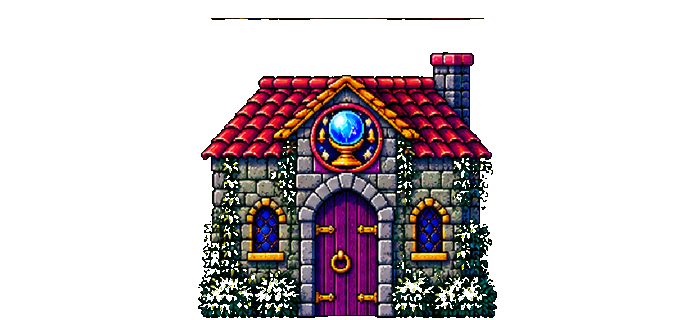
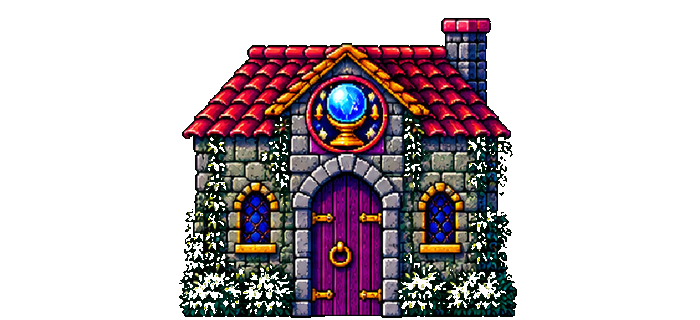
Zeliard: whole opening pictures, clean Muralla buildings, no flashing strip on moving platforms

diff --git a/public/zeliard/game/src/scenes/story.js b/public/zeliard/game/src/scenes/story.js
@@ -1,7 +1,7 @@
 // Cutscenes: the opening story, the ending, and the Tear of Esmesanti fanfare.
 // Text is the Sierra English script from data/rules/story.json; each original
 // picture (.grp) maps to a remastered panel under art/story/ when one exists.
-import { ctx, W, H, text, panel, COLORS, drawCover, fade, wrap } from '../render/screen.js';
+import { ctx, W, H, text, panel, COLORS, drawCover, drawContain, fade, wrap } from '../render/screen.js';
 import { image } from '../core/assets.js';
 import { audio } from '../core/audio.js';
 import { sheetNow } from '../core/assets.js';
@@ -17,6 +17,8 @@ const PANELS = {
 // portrait) shares the screen with the picture that matters in split scenes.
 const MINOR = new Set(['yuup.grp']);
 // New pictures for the original's staging, and what to show until they exist.
+// Height of the picture above the text box (the box holds four lines at 19 px).
+const PIC_H = 380;
 const FALLBACK = { felicia_closeup: 'felicia_balcony', jashiin_eyes: 'jashiin_curse', duke_into_light: 'door_of_destiny' };
 const SPEAKER = { 'Duke Garland': 'duke', 'King Felishika': 'king', Jashiin: 'jashiin' };
 
@@ -187,7 +189,9 @@ export class StoryScene {
     const p = this.page || this.pages[this.pages.length - 1];
     if (!p) return;
     const img = this.imgs[p.pic];
-    const ph = p.caption ? H : 360;
+    // The picture area: everything above the text box (whole screen for captions). Pictures are
+    // shown whole (drawContain), never cropped to fill it.
+    const ph = p.caption ? H : PIC_H;
     const st = p.stage || {};
     if (p.tear) this.drawTear(p.tear, t);
     else if (st.portraits) this.drawPortraits(p, st, ph);
@@ -195,12 +199,16 @@ export class StoryScene {
       // Crossfade from the previous picture over 0.8 s.
       const k = Math.min(1, (this.picT || 0) / 0.8);
       const prev = this.prevPic && this.prevPic !== p.pic && !this.prevPage?.stage?.portraits ? this.imgs[this.prevPic] : null;
-      if (prev && k < 1) drawCover(prev, 0, 0, W, ph);
+      if (prev && k < 1) drawContain(prev, 0, 0, W, ph);
+      // The closing push-in starts from the whole picture and slowly closes in on it.
       const push = st.fx === 'push' ? Math.min(1, (this.picT || 0) / 14) : 0;
-      if (img) drawCover(img, -push * 60, -push * 40, W + push * 120, ph + push * 80, prev ? k : 1);
-      else if (this.fallback) drawCover(this.fallback, -20 + Math.sin(this.t * 0.1) * 20, 0, W + 40, ph, 0.55);
+      ctx.save();
+      ctx.beginPath(); ctx.rect(0, 0, W, ph); ctx.clip();
+      const r = img ? drawContain(img, -push * 60, -push * 40, W + push * 120, ph + push * 80, prev ? k : 1) : null;
+      ctx.restore();
+      if (!img && this.fallback) drawContain(this.fallback, 0, 0, W, ph, 0.55);
       if (st.fx === 'rain') this.drawRain(ph, t);
-      if (st.fx === 'eyes_in') this.drawEyesIn(ph);
+      if (st.fx === 'eyes_in' && r) this.drawEyesIn(r);
     }
     if (p.caption) {
       fade(0.55, '#000');
@@ -211,7 +219,9 @@ export class StoryScene {
       g.addColorStop(0, 'rgba(5,3,10,0)'); g.addColorStop(1, 'rgba(5,3,10,1)');
       ctx.fillStyle = g; ctx.fillRect(0, ph - 60, W, 60);
       panel(40, ph + 6, W - 80, H - ph - 20, { alpha: 0.95 });
-      this.drawText(p, 70, ph + 24, W - 140, 19, 'left');
+      // Four lines fit at 19 px; the odd five-line page steps down a size.
+      const n = p.chunks.reduce((a, c) => a + (c.speaker ? 1 : 0) + c.text.split('\n').reduce((b, l) => b + wrap(l, W - 140, 19).length, 0), 0);
+      this.drawText(p, 70, ph + 22, W - 140, n > 4 ? 17 : 19, 'left');
     }
     text(`${Math.min(this.i + 1, this.pages.length)} / ${this.pages.length}    Enter: next   Esc: skip`, W - 20, H - 18, { size: 11, align: 'right', color: COLORS.dim });
   }
@@ -247,14 +257,16 @@ export class StoryScene {
     ctx.restore();
   }
   // Jashiin's eyes blend in over the princess (the original's palette blend).
-  drawEyesIn(ph) {
+  drawEyesIn(r) {
     const im = this.eyesOverlay;
     if (!im) return;
     const k = Math.min(1, (this.picT || 0) / 2.5);
     ctx.save();
     ctx.globalCompositeOperation = 'screen';
-    // In the dark sky over Felicia's shoulder (upper left of felicia_closeup), not on her face.
-    drawCover(im, -W * 0.02, -ph * 0.04, W * 0.6, W * 0.4, k * 0.9);
+    // In the dark sky over Felicia's shoulder (upper left of felicia_closeup), not on her face;
+    // placed on the picture itself (r: where drawContain put it).
+    ctx.beginPath(); ctx.rect(r.x, r.y, r.w, r.h); ctx.clip();
+    drawCover(im, r.x, r.y - r.h * 0.02, r.w * 0.62, r.w * 0.62 * 2 / 3, k * 0.9);
     ctx.restore();
   }
   // The split frame: portraits side by side in gold frames (or Jashiin's alone). The speaker

diff --git a/public/zeliard/game/src/scenes/opening.js b/public/zeliard/game/src/scenes/opening.js
@@ -4,7 +4,7 @@
 // up), Jashiin's awakening (his face built up out of the dark, the eyes opening, the fanged mouth
 // speaking), the title logo with its colour rotation, and the staff credits. Enter skips to the
 // next part; Esc (or the pause key) goes straight to the title menu.
-import { ctx, W, H, text, COLORS, drawCover } from '../render/screen.js';
+import { ctx, W, H, text, COLORS, drawContain } from '../render/screen.js';
 import { image } from '../core/assets.js';
 import { audio } from '../core/audio.js';
 
@@ -14,6 +14,9 @@ const LINE = 10 * 0x1c / 236.7;
 const PHASES = ['card', 'prologue', 'jashiin', 'title', 'credits'];
 
 const lines = (scenes, phase) => (scenes.find((s) => s.phase === phase)?.pages || []).flatMap((p) => p.lines.map((l) => l.text ?? ''));
+
+// Jashiin's face: the whole 3:2 picture, fitted above the bottom 100 px where his words appear.
+const FACE = { w: (H - 100) * 1.5, h: H - 100, x: (W - (H - 100) * 1.5) / 2, y: 0 };
 
 export class OpeningScene {
   constructor(game, done) {
@@ -90,7 +93,8 @@ export class OpeningScene {
       ctx.save();
       ctx.globalAlpha = 1 - out;
       // Blue silhouette -> gold: draw the necklace, then wash it with deep blue that thins out.
-      drawCover(nk, -20, -10 - u * 30, W + 40, H + 60);
+      // The whole necklace, drifting up 30 px as the text rolls (never past the top).
+      const pic = drawContain(nk, 0, 30 * (1 - u), W, H - 30);
       ctx.globalCompositeOperation = 'color';
       ctx.fillStyle = `rgba(20,40,170,${Math.max(0, 1 - u * 1.6)})`;
       ctx.fillRect(0, 0, W, H);
@@ -103,7 +107,8 @@ export class OpeningScene {
         for (let i = 0; i < 9; i++) {
           const ph = (this.t * 0.9 + i * 0.37) % 3;
           if (ph > 0.5) continue;
-          const x = W * (0.29 + i * 0.053), y = H * (0.47 + Math.sin((i / 8) * Math.PI) * 0.1) - u * 20;
+          // On the gems: fractions of the picture.
+          const x = pic.x + pic.w * (0.298 + i * 0.0509), y = pic.y + pic.h * (0.457 + Math.sin((i / 8) * Math.PI) * 0.081);
           const r = 14 * Math.sin((ph / 0.5) * Math.PI) * (u - 0.6) * 2.5;
           const g = ctx.createRadialGradient(x, y, 0, x, y, r * 2);
           g.addColorStop(0, 'rgba(255,255,230,0.9)'); g.addColorStop(1, 'rgba(255,220,150,0)');
@@ -152,17 +157,20 @@ export class OpeningScene {
         // Speaking: the mouth opens and closes while each strip is being spoken.
         const strip = this.stripAt(T);
         if (strip && roar && Math.floor((T - strip.t0) / 0.16) % 2 === 0 && T - strip.t0 < 1.6) img = roar;
-        drawCover(img, W * 0.08, -46, W * 0.84, W * 0.84 * 2 / 3, a); // a little smaller and higher: room for his words under the chin
+        drawContain(img, FACE.x, FACE.y, FACE.w, FACE.h, a, false); // the whole face, above his words
         ctx.restore();
       }
       // The eyes flare as they open.
       if (T > 5 && T < 6.2) {
         const k = 1 - (T - 5) / 1.2;
         ctx.globalCompositeOperation = 'lighter';
-        for (const ex of [0.357, 0.66]) {
-          const g = ctx.createRadialGradient(W * ex, 122, 0, W * ex, 122, 160);
+        // The eyes sit at (0.33, 0.31) and (0.69, 0.31) of the face picture.
+        const fr = 120 * FACE.w / 660, ey = FACE.y + FACE.h * 0.312;
+        for (const ex of [0.33, 0.69]) {
+          const cx = FACE.x + FACE.w * ex;
+          const g = ctx.createRadialGradient(cx, ey, 0, cx, ey, fr);
           g.addColorStop(0, `rgba(255,60,40,${0.8 * k})`); g.addColorStop(1, 'rgba(255,0,0,0)');
-          ctx.fillStyle = g; ctx.fillRect(W * ex - 160, 122 - 160, 320, 320);
+          ctx.fillStyle = g; ctx.fillRect(cx - fr, ey - fr, fr * 2, fr * 2);
         }
         ctx.globalCompositeOperation = 'source-over';
       }

diff --git a/public/zeliard/game/src/render/screen.js b/public/zeliard/game/src/render/screen.js
@@ -96,6 +96,62 @@ export function fade(alpha, color = '#000') {
   ctx.restore();
 }
 
+// Fit the whole of an image inside a rectangle (nothing cropped) and return where it went. With
+// `backdrop`, the margins are filled with a dark, blurred copy of the same picture, cover-fitted,
+// so a 3:2 painting on the 16:9 screen reads as one image rather than a boxed one. The blur is a
+// small blurred copy, made once per image, so it costs nothing per frame.
+const blurred = new WeakMap();
+export function drawContain(img, x, y, w, h, alpha = 1, backdrop = true) {
+  if (!img) return null;
+  const s = Math.min(w / img.width, h / img.height);
+  const dw = img.width * s, dh = img.height * s;
+  const r = { x: x + (w - dw) / 2, y: y + (h - dh) / 2, w: dw, h: dh };
+  if (backdrop && (dw < w - 1 || dh < h - 1)) {
+    let b = blurred.get(img);
+    if (!b) {
+      b = document.createElement('canvas'); b.width = 240; b.height = Math.max(1, Math.round(240 * img.height / img.width));
+      const g = b.getContext('2d'); g.imageSmoothingEnabled = true; g.filter = 'blur(6px)';
+      g.drawImage(img, -12, -12, b.width + 24, b.height + 24); // overscan: no dark rim from the blur
+      blurred.set(img, b);
+    }
+    ctx.save();
+    ctx.beginPath(); ctx.rect(x, y, w, h); ctx.clip();
+    drawCover(b, x, y, w, h, alpha * 0.45);
+    ctx.restore();
+  }
+  ctx.save();
+  ctx.globalAlpha *= alpha;
+  ctx.imageSmoothingEnabled = true;
+  ctx.drawImage(backdrop ? feathered(img, dw, dh, dw < w - 1, dh < h - 1) : img, r.x, r.y, r.w, r.h);
+  ctx.restore();
+  return r;
+}
+// A copy of the picture at about its shown size whose edges fade out over 36 px, so it melts into
+// the blurred backdrop instead of ending in a hard line. Made once per image (and side set).
+const soft = new WeakMap();
+function feathered(img, dw, dh, sides, ends) {
+  if (!sides && !ends) return img;
+  const key = `${sides}${ends}`;
+  let c = soft.get(img)?.[key];
+  if (c) return c;
+  c = document.createElement('canvas');
+  c.width = Math.round(dw); c.height = Math.round(dh);
+  const g = c.getContext('2d');
+  g.imageSmoothingEnabled = true;
+  g.drawImage(img, 0, 0, c.width, c.height);
+  g.globalCompositeOperation = 'destination-out';
+  const F = 36;
+  const edge = (x0, y0, x1, y1, rx, ry, rw, rh) => {
+    const gr = g.createLinearGradient(x0, y0, x1, y1);
+    gr.addColorStop(0, 'rgba(0,0,0,1)'); gr.addColorStop(1, 'rgba(0,0,0,0)');
+    g.fillStyle = gr; g.fillRect(rx, ry, rw, rh);
+  };
+  if (sides) { edge(0, 0, F, 0, 0, 0, F, c.height); edge(c.width, 0, c.width - F, 0, c.width - F, 0, F, c.height); }
+  if (ends) { edge(0, 0, 0, F, 0, 0, c.width, F); edge(0, c.height, 0, c.height - F, 0, c.height - F, c.width, F); }
+  soft.set(img, { ...(soft.get(img) || {}), [key]: c });
+  return c;
+}
+
 // Cover-fit an image into a rectangle (used for backgrounds and cutscene panels).
 export function drawCover(img, x, y, w, h, alpha = 1) {
   if (!img) return;

diff --git a/public/zeliard/game/src/game/entities.js b/public/zeliard/game/src/game/entities.js
@@ -338,8 +338,10 @@ class Platform {
   constructor(p) { this.p = p; this.tx = p.x; this.ty = p.y; this.ptx = p.x; this.pty = p.y; this.acc = 0; this.t = 0; }
   stamp(map, on = true) {
     for (let i = 0; i < 3; i++) {
-      if (on) map.setOverride(this.tx + i, this.ty, F.ONEWAY | F.PLATFORM);
-      else map.clearOverride(this.tx + i, this.ty);
+      // Footing only: the platform draws itself. Drawn by the terrain, the tiles it had just
+      // stepped onto showed as a ledge strip flashing ahead of the sliding rock.
+      if (on) map.setOverride(this.tx + i, this.ty, F.ONEWAY | F.PLATFORM, false);
+      else map.clearOverride(this.tx + i, this.ty, false);
     }
   }
   moveTo(map, tx, ty) { this.stamp(map, false); this.tx = tx; this.ty = ty; this.stamp(map, true); }
@@ -350,6 +352,7 @@ class Platform {
   drawAt(cx, cy, color, art) {
     const a = Math.min(1, this.acc / FRAME);
     const x = (this.ptx + (this.tx - this.ptx) * a) * TILE - cx, y = (this.pty + (this.ty - this.pty) * a) * TILE - cy;
+    this.lastDraw = { x, y }; // screen position, for tools/tests/moverstrip.mjs
     // Art: the walkable top sits on the tile row; the plank hangs a little below it.
     if (art && imageNow(`art/props/${art}.png`)) {
       const img = imageNow(`art/props/${art}.png`);

diff --git a/public/zeliard/game/src/world/tilemap.js b/public/zeliard/game/src/world/tilemap.js
@@ -43,18 +43,21 @@ export class TileMap {
     if (dyn & 0x80000000) return dyn & 0x7fffffff; // override
     return this.flagsById[this.grid[i]] | dyn;
   }
-  setOverride(tx, ty, flags) {
+  // redraw: false for tiles that something else draws (a moving platform's footing): the terrain
+  // doesn't repaint for them, which also spares a chunk re-render on every platform step.
+  setOverride(tx, ty, flags, redraw = true) {
     const i = this.index(tx, ty);
     if (i < 0) return;
     this.dyn[i] = (0x80000000 | flags) >>> 0;
-    this.version++;
+    if (redraw) this.version++;
   }
-  clearOverride(tx, ty) {
+  clearOverride(tx, ty, redraw = true) {
     const i = this.index(tx, ty);
     if (i < 0) return;
     this.dyn[i] = 0;
-    this.version++;
+    if (redraw) this.version++;
   }
+  isOverride(tx, ty) { const i = this.index(tx, ty); return i >= 0 && (this.dyn[i] & 0x80000000) !== 0; }
   setTile(tx, ty, id) {
     const i = this.index(tx, ty);
     if (i < 0) return;

diff --git a/public/zeliard/game/src/world/terrain.js b/public/zeliard/game/src/world/terrain.js
@@ -156,7 +156,7 @@ export class TerrainRenderer {
         const px = x * TILE - ox, py = y * TILE - oy;
         if (f & F.ROPE) this.drawRope(g, px, py, x, y);
         if (f & F.HAZARD && !(f & F.SOLID)) this.drawHazard(g, px, py, x, y);
-        if (f & F.ONEWAY) this.drawLedge(g, px, py, x, y);
+        if (f & F.ONEWAY && !(f & F.PLATFORM && m.isOverride(x, y))) this.drawLedge(g, px, py, x, y); // moving platforms draw themselves
         if (f & F.ICE && f & F.SOLID && !solid(x, y - 1)) { g.fillStyle = 'rgba(200,240,255,0.55)'; g.fillRect(px, py, TILE, 4); }
         if (f & F.WATER) { g.fillStyle = 'rgba(40,110,200,0.35)'; g.fillRect(px, py, TILE, TILE); }
         if (f & F.BREAKABLE && f & F.SOLID) this.drawCracks(g, px, py, x, y);

diff --git a/public/zeliard/game/index.html b/public/zeliard/game/index.html
@@ -1,7 +1,7 @@
 <!doctype html>
 <html lang="en">
 <head>
-<script>window.ZELIARD_BUILD = '20261002T0427-d188a4b';</script>
+<script>window.ZELIARD_BUILD = '20261002T0455-d1c1413';</script>
 <meta charset="utf-8">
 <meta name="viewport" content="width=device-width,initial-scale=1,viewport-fit=cover">
 <title>Zeliard — Remastered</title>
